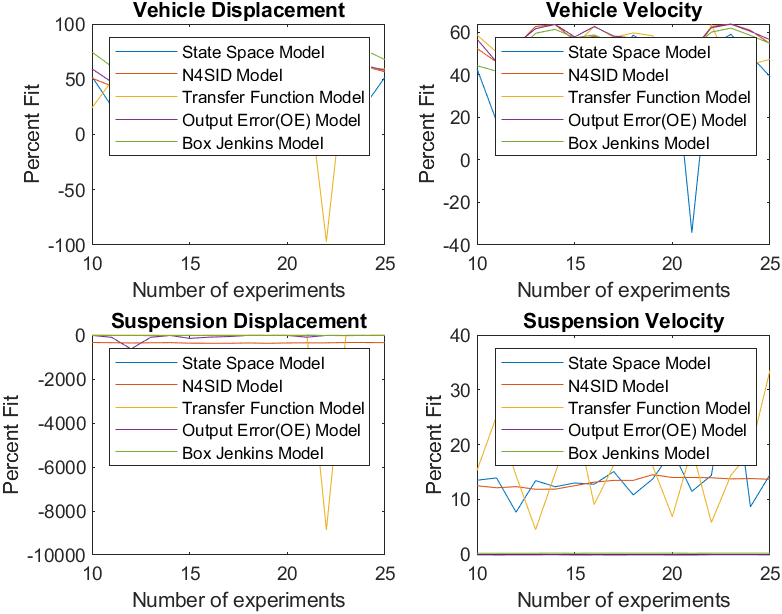
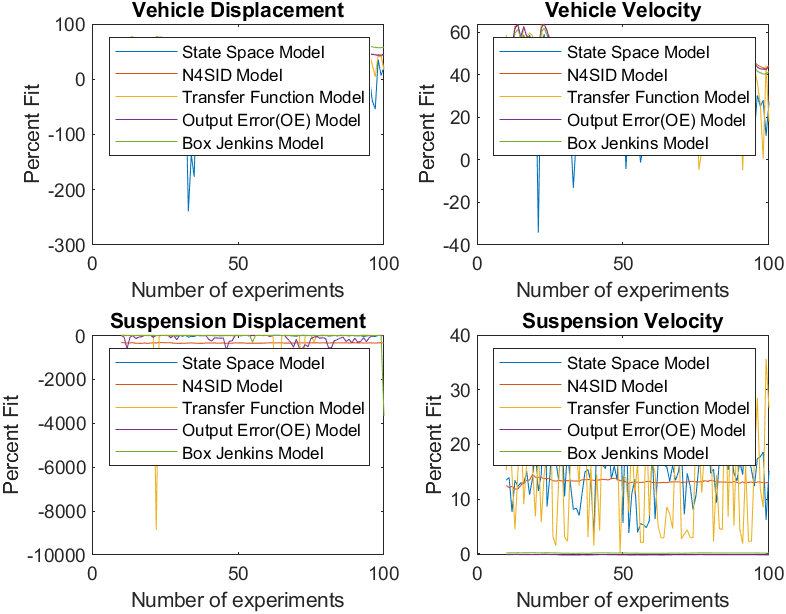
New model response generation for velocities

diff --git a/src/generateResponseVel.m b/src/generateResponseVel.m
@@ -1,0 +1,97 @@
+function [inputParams,responseData,stepResponse,vel] = generateResponseVel(numRuns)
+    arguments
+        numRuns uint32 = 15
+    end
+    
+    % Nominal values of the Quarter Car Suspension model from
+    % https://ctms.engin.umich.edu/CTMS/index.php?example=Suspension&section=SimulinkModeling
+    % ignoring the damping effect of the tire
+    % (m_v) body mass 2500 kg (m_s) suspension mass 320 kg (k_s) spring constant of
+    % suspension system 80,000 N/m (k_t) spring constant of wheel and tire
+    % 500,000 N/m (b_s) damping constant of suspension system 10000 N.s/m
+    % 
+    % According to NHTSA recommendation, speed bumps may not be more than 3
+    % inches high. The input profile for the QCM model shall be a series of
+    % bumps represented by a sine wave with an amplitude of 75 mm and separated
+    % by a distance of 150 mm
+    
+    
+    inputParams = zeros(numRuns,5); % m_v, m_s, k_s,k_t,b_s
+    t=(0:0.05:120)';
+    vel = 10*(5/18);
+    for i = 1:numRuns
+    
+        s = rng(i);
+        m_v = (1 + randi([-5,5])*0.01)*2500;
+        m_s= (1 + randi([-5,5])*0.01)*320;
+        k_s = (1 + randi([-5,5])*0.01)*80000;
+        k_t = (1 + randi([-5,5])*0.01)*500000;
+        b_s = (1 + randi([-5,5])*0.01)*350;
+    
+        in(i) = Simulink.SimulationInput('quarterCarModelUpdated');
+        in(i) = setBlockParameter(in(i),'quarterCarModelUpdated/m1','mass',num2str(m_v));
+        in(i) = setBlockParameter(in(i),'quarterCarModelUpdated/k1','spr_rate',num2str(k_s));
+        in(i) = setBlockParameter(in(i),'quarterCarModelUpdated/b1','D',num2str(b_s));
+        in(i) = setBlockParameter(in(i),'quarterCarModelUpdated/m2','mass',num2str(m_s));
+        in(i) = setBlockParameter(in(i),'quarterCarModelUpdated/k2','spr_rate',num2str(k_t));
+        in(i) = setModelParameter(in(i),'StartTime','0','StopTime','60','FixedStep','0.05');
+
+
+
+        A = [0, 1, 0, 0;
+            -k_s/m_v,-b_s/m_v,k_s/m_v,b_s/m_v;
+            0, 0, 0, 1;
+            k_s/m_s, b_s/m_s, -(k_s+k_t)/m_s, -b_s/m_s];
+        B = [0;0;0;k_t/m_s];
+        C = [1 0 0 0;
+             0 1 0 0;
+             0 0 1 0;
+             0 0 0 1];
+        D = [0;0;0;0];
+    
+        sys_ss_model = ss(A,B,C,D);
+        
+        modelStepResponse{i} = iddata([step(sys_ss_model,0:0.05:120)],[ones(size(t))],'Ts',0.05,'SamplingInstants',t);
+        inputParams(i,:) = [m_v, m_s, k_s,k_t,b_s];
+        modelStepResponse{i}.TimeUnit = 's';
+        % Set names of input channels
+        modelStepResponse{i}.InputName = {'RoadDisp'};
+        % Set units for input variables
+        modelStepResponse{i}.InputUnit = {'m'};
+        % Set name of output channels
+        modelStepResponse{i}.OutputName = {'VehDisp','VehVel','SuspDisp','SuspVel'};
+        % Set unit of output channels
+        modelStepResponse{i}.OutputUnit = {'m','m/s','m','m/s'};
+    
+    
+    end 
+    
+    stepResponse = merge(modelStepResponse{:});
+    simOut = parsim(in, 'ShowSimulationManager', 'off', 'TransferBaseWorkspaceVariables','on');
+
+    for i = 1:numRuns
+        disp(simOut(i).ErrorMessage)
+    end
+    %Create iddata objects from the simulation output objects to load into the
+    %System Identification Toolbox
+    for itr = 1:numRuns
+        
+        responseData{itr} = iddata([squeeze(simOut(itr).veh_y.data)  ...
+            squeeze(simOut(itr).veh_vel.data)  ...
+            squeeze(simOut(itr).susp_y.data)  ...
+            squeeze(simOut(itr).susp_vel.data)], ...
+            [squeeze(simOut(itr).Road_y.data)],'Ts',0.05,'SamplingInstants',simOut(itr).tout,'InterSample','foh'); %#ok<*AGROW,*SAGROW> 
+            % Set time units to seconds
+        responseData{itr}.TimeUnit = 's';
+            % Set names of input channels
+        responseData{itr}.InputName = {'RoadDisp'};
+            % Set units for input variables
+        responseData{itr}.InputUnit = {'m'};
+            % Set name of output channels
+        responseData{itr}.OutputName = {'VehDisp','VehVel','SuspDisp','SuspVel'};
+            % Set unit of output channels
+        responseData{itr}.OutputUnit = {'m','m/s','m','m/s'};
+    end
+    
+
+end

diff --git a/src/updatedPipeline.m b/src/updatedPipeline.m
@@ -4,7 +4,7 @@ close all;
 estSplit = 0.7;
 
 %Declare the number of experiments to generate data
-numRuns = 25;
+numRuns = 100;
 
 %Repeated execution is required to compute time cost of the functions.
 %Therefore, we initialize a variable to calculate average time cost
